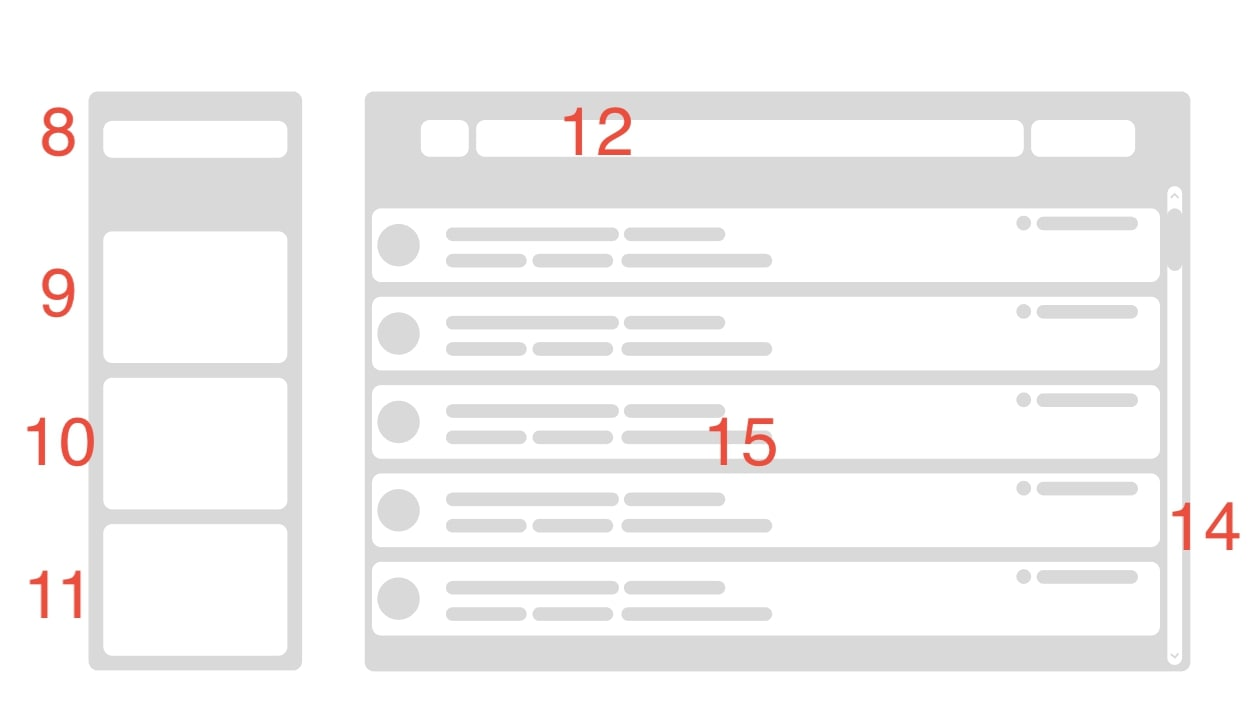
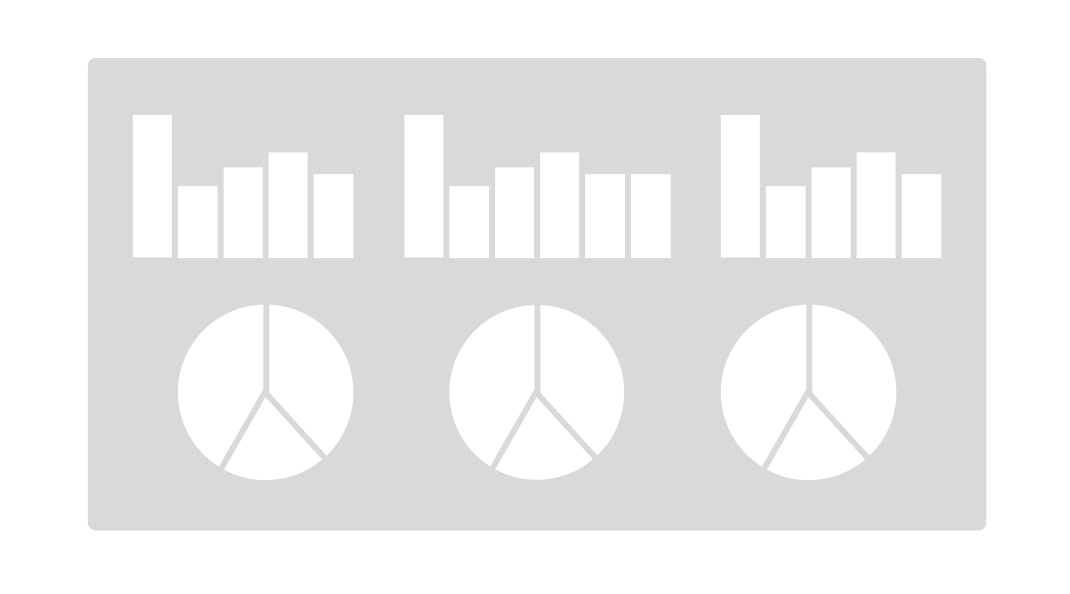
docs: adiciona mais telas para indentificação dos elementos

diff --git a/docs/project.md b/docs/project.md
@@ -1070,17 +1070,13 @@ _conteúdo_
   <sup>Fonte: Material produzido pelos autores (2025).</sup>
 </div>
 
-1. **Área de destaque (imagem ou ilustração)**
-   Espaço destinado para inserir uma imagem de identidade visual do Centro Paula Sousa.
+1. **Área de destaque (imagem ou ilustração):** Espaço destinado para inserir uma imagem de identidade visual do Centro Paula Sousa.
 
-2. **Campo de entrada para e-mail**
-   Área para que o gerente insere seu endereço de e-mail.
+2. **Campo de entrada para e-mail:** Área para que o gerente insere seu endereço de e-mail.
 
-3. **Campo de entrada para senha**
-   Campo de texto onde o gerente digita sua senha. É mascarado (••••) para proteger a privacidade do usuário.
+3. **Campo de entrada para senha:** Campo de texto onde o gerente digita sua senha. É mascarado (••••) para proteger a privacidade do usuário.
 
-4. **Botão de ação (Login)**
-   Ao clicar, o sistema valida as credenciais fornecidas (e-mail e senha) e redireciona o gerente para a próxima tela, caso os dados estejam corretos.
+4. **Botão de ação (Login):** Ao clicar, o sistema valida as credenciais fornecidas (e-mail e senha) e redireciona o gerente para a próxima tela, caso os dados estejam corretos.
 
 ---
 
@@ -1097,23 +1093,20 @@ _conteúdo_
   <sup>Fonte: Material produzido pelos autores (2025).</sup>
 </div>
 
-5. **Área para logotipo**
-   Espaço reservado para inserir o logotipo ou nome da marca, mantendo a identidade visual do sistema.
+5. **Área para logotipo:** Espaço reservado para inserir o logotipo ou nome da marca, mantendo a identidade visual do sistema.
 
-6. **Texto ou imagem do logotipo**
-   Elemento que representa a identidade visual da marca. Pode ser clicável para redirecionar o usuário à página inicial, dependendo do projeto.
+6. **Texto ou imagem do logotipo:** Elemento que representa a identidade visual da marca. Pode ser clicável para redirecionar o usuário à página inicial, dependendo do projeto.
 
-7. **Avatar clicável**
-   Ícone que representa o usuário, geralmente localizado à direita da barra de navegação. Pode exibir um menu ao ser clicado, permitindo acesso a configurações, perfil ou logout.
+7. **Avatar clicável:** Ícone que representa o usuário, geralmente localizado à direita da barra de navegação. Pode exibir um menu ao ser clicado, permitindo acesso a perfil ou sair da conta.
 
 ---
 
-#### Lista não Preenchida
+#### Lista Não Preenchida
 
 <div align="center">
   <sub>Figura X - Wireframe da Lista não Preenchida</sub> <br>
 
-  <img src="./assets/section7/7.1_wireframe/enumerated_elements/dashboard_blank.jpg"
+  <img src="./assets/section7/7.1_wireframe/enumerated_elements/empty_list.jpg"
         alt="Wireframe da Lista não Preenchida"
         border="0"
         style="max-width: 600px; width: 100%; height: auto;">
@@ -1121,32 +1114,26 @@ _conteúdo_
   <sup>Fonte: Material produzido pelos autores (2025).</sup>
 </div>
 
-8. **Filtro de Instituição de Ensino (School)**
-   Área para selecionar a instituição de ensino desejada(Só aparece para Gerente Geral). Pode influenciar as listas e relatórios exibidos na tela.
+8. **Filtro de instituição de ensino:** Área para selecionar a instituição de ensino desejada (só é exibido para Gerente Geral). Isto filtra as listas e relatórios exibidos na tela.
 
-9. **Botão "Listar Alunos"**
-   Ao clicar, exibe a lista de alunos vinculados à instituição de ensino selecionada ou pré-atribuida ào gerente de unidade.
+9. **Botão "Listar Alunos":** Ao clicar, exibe a lista de alunos vinculados à instituição de ensino selecionada ou pré-atribuida ào gerente de unidade.
 
-10. **Botão "Listar Profissionais"**
-    Ao clicar, exibe a lista de profissionais (médicos, cuidadores, etc.) que realizaram atividades na instituição.
+10. **Botão "Listar Profissionais":** Ao clicar, exibe a lista de profissionais (médicos, cuidadores, etc.) que realizaram atividades na instituição.
 
-11. **Botão "Gerenciar Gerentes"**
-    Visível apenas para usuários com permissão de gerente geral. Permite visualizar e gerenciar outros gerentes.
+11. **Botão "Gerenciar Gerentes":** Visível apenas para usuários com permissão de gerente geral. Permite visualizar e gerenciar outros gerentes.
 
-12. **Barra de Filtros**
-    Localizada na parte superior da coluna central. Permite filtrar ou refinar a lista que está sendo exibida (alunos, profissionais, gerentes, etc.).
+12. **Barra de filtros:** Localizada na parte superior da coluna central. Permite filtrar ou refinar a lista que está sendo exibida (alunos, profissionais, gerentes, etc.).
 
-13. **Lista de objetos**
-    Espaço dedicado para listar Alunos, Profissionais ou gerentes, dependendo de qual botão foi clicado préviamente.
+13. **Lista de objetos:** Espaço dedicado para listar Alunos, Profissionais ou gerentes, dependendo de qual botão foi clicado préviamente.
 
 ---
 
-#### Lista informações
+#### Lista Preenchida
 
 <div align="center">
   <sub>Figura X - Wireframe da lista preenchida</sub> <br>
 
-  <img src="./assets/section7/7.1_wireframe/enumerated_elements/dashboard.jpg"
+  <img src="./assets/section7/7.1_wireframe/enumerated_elements/list.jpg"
          alt="Wireframe da lista preenchida"
          border="0"
          style="max-width: 600px; width: 100%; height: auto;">
@@ -1154,11 +1141,9 @@ _conteúdo_
   <sup>Fonte: Material produzido pelos autores (2025).</sup>
 </div>
 
-14. **Barra de Scroll**
-    Ilustra que a lista é "scrollavel".
+14. **Barra de scroll:** Ilustra que a lista é rolável.
 
-15. **Área de Listagem / Conteúdo**
-    Exibe o resultado selecionado na primeira coluna (alunos, profissionais ou gerentes). Contem informações detalhadas, e quando clicada, leva para a tela de detalhes e gerenciamento.
+15. **Área de listagem:** Exibe o resultado selecionado na primeira coluna (alunos, profissionais ou gerentes). Contem informações detalhadas, e quando um item é clicado, leva para a página com a visão detalhada do item clicado.
 
 ---
 
@@ -1167,7 +1152,7 @@ _conteúdo_
 <div align="center">
   <sub>Figura X - Wireframe do dashboard dos alunos</sub> <br>
 
-  <img src="./assets/section7/7.1_wireframe/enumerated_elements/analytics.jpg"
+  <img src="./assets/section7/7.1_wireframe/enumerated_elements/dashboard.jpg"
          alt="Wireframe do dashboard dos alunos"
          border="0"
          style="max-width: 600px; width: 100%; height: auto;">
@@ -1175,13 +1160,11 @@ _conteúdo_
   <sup>Fonte: Material produzido pelos autores (2025).</sup>
 </div>
 
-- Observação: Analytics só aparecem na listagem de *Alunos*
+- *Observação: Este dashboard só aparecem na listagem de Alunos*
 
-16. **Gráficos de Barras (Analytics)**
-    Mostra dados analíticos referentes aos alunos/profissionais selecionados, possibilitando uma visualização rápida de métricas (por exemplo, atendimentos realizados, condição por escola etc).
+16. **Gráficos de barras:** Mostra dados analíticos referentes aos alunos/profissionais selecionados, possibilitando uma visualização rápida de métricas (por exemplo, atendimentos realizados, condição por escola, etc).
 
-17. **Gráficos de Pizza (Analytics)**
-    Apresenta dados complementares aos gráficos de barras, permitindo comparar proporções de forma visual, de acordo com o contexto escolhido no dashboard.
+17. **Gráficos de pizza:** Apresenta dados complementares aos gráficos de barras, permitindo comparar proporções de forma visual, de acordo com o contexto escolhido no dashboard.
 
 ---
 
@@ -1198,40 +1181,88 @@ _conteúdo_
   <sup>Fonte: Material produzido pelos autores (2025).</sup>
 </div>
 
-18. **Informações basicas do Aluno**
-    Apresenta dados basicos, como nome, email, tecnologias assistivas etc.
-19. **Observação**
-    Observações gerais daquele aluno, cabe ao Gerente escreve-las.
-20. **Informações de Curso**
-    Dados como, cursos cursados, data de inicio e fim, turno etc.
-21. **Timeline do Aluno**
-    Atendimentos e atualizações sobre o aluno aparecerão aqui..
-22. **Detalhamento da Timeline**
-    Quando clicado em algum elemento da timeline, essa seção irá atualizar com informações complementares.
+18. **Informações básicas do aluno:** Apresenta dados básicos, como nome, e-mail, tecnologias assistivas etc.
+19. **Observação:** Observações gerais daquele aluno, cabe ao Gerente escrevê-las.
+20. **Informações de curso:** Dados como, cursos cursados, data de início e fim, turno etc.
+21. **Timeline do aluno:** Atendimentos e atualizações sobre o aluno aparecerão aqui em ordem cronológica.
+22. **Detalhamento da timeline:** Quando clicado em algum elemento da timeline, essa seção irá atualizar com informações complementares.
 
 ---
 
-#### Página do Gerente
+#### Página do Aluno (Agendamento de Assistência)
 
 <div align="center">
-  <sub>Figura X - Wireframe da Pagina de Gerente</sub> <br>
+  <sub>Figura X - Wireframe da Pagina de Aluno (Agendamento de Assistência)</sub> <br>
 
-  <img src="./assets/section7/7.1_wireframe/enumerated_elements/show_manager.jpg"
-         alt="Wireframe da Pagina de Gerente"
+  <img src="./assets/section7/7.1_wireframe/enumerated_elements/show_student_assistance.jpg"
+         alt="Wireframe da Pagina de Aluno (Agendamento de Assistência)"
          border="0"
          style="max-width: 600px; width: 100%; height: auto;">
 
   <sup>Fonte: Material produzido pelos autores (2025).</sup>
 </div>
 
-23. **Informações do Gerente**
-    Nome, Telefone, email, etc. Tambem incluí um botão para editar informações relacionadas.
+23. **Título do modal** Título para contextualizar o usuário do que foi aberto.
+24. **Barra de progresso** Indicador do progresso de preenchimento do formulário. Então conforme o usuárioa avança no preenchimento das informação que serão divididas em etapas, isso será indicado ao usuário.
+24. **Formulário** Toda assistência tem que armazenar o profissional e uma tecnologia assistiva, então todos os dados necessários estarão reunidos aqui.
 
-24. **Unidade de Atuação**
-    Incluí onde aquele Gerente está trabalhando e informação de quantos profissionais estão atuando naquela unidade.
+---
 
-25. **Campo de Observações**
-    Serve para adicionar qualquer detalhamento necessário sobre aquele Gerente.
+#### Página do Aluno (Histórico de Cursos)
+
+<div align="center">
+  <sub>Figura X - Wireframe da Pagina de Aluno (Histórico de Cursos)</sub> <br>
+
+  <img src="./assets/section7/7.1_wireframe/enumerated_elements/show_student_courses.jpg"
+         alt="Wireframe da Pagina de Aluno (Histórico de Cursos)"
+         border="0"
+         style="max-width: 600px; width: 100%; height: auto;">
+
+  <sup>Fonte: Material produzido pelos autores (2025).</sup>
+</div>
+
+26. **Botão "Ver Cursos":** Exibe uma pequena janela para visualizar o histórico de cursos e instituições pelas quais o usuário.
+27. **Botão "Ver Cursos":** Janela de visuaçização do histórico de cursos do aluno.
+
+---
+
+#### Página de um Profissional
+
+<div align="center">
+  <sub>Figura X - Wireframe da Pagina de um Profissional</sub> <br>
+
+  <img src="./assets/section7/7.1_wireframe/enumerated_elements/show_professional.jpg"
+         alt="Wireframe da Pagina de um Profissional"
+         border="0"
+         style="max-width: 600px; width: 100%; height: auto;">
+
+  <sup>Fonte: Material produzido pelos autores (2025).</sup>
+</div>
+
+28. **Informações sobre o profissional:** Nome, Telefone, e-mail, etc. Tambem inclui um botão para editar informações relacionadas.
+29. **Observações sobre o profissional:** Informações gerais que podem ser úteis para identificar e entender a função daquele profisisional.
+30. **Lista de alunos:** listagem dos alunos e informações sobre a assitência que o profissional presta ao aluno.
+
+---
+
+#### Página de um Usuário
+
+<div align="center">
+  <sub>Figura X - Wireframe da Pagina de um Usuário</sub> <br>
+
+  <img src="./assets/section7/7.1_wireframe/enumerated_elements/show_user.jpg"
+         alt="Wireframe da Pagina de um Usuário"
+         border="0"
+         style="max-width: 600px; width: 100%; height: auto;">
+
+  <sup>Fonte: Material produzido pelos autores (2025).</sup>
+</div>
+
+31. **Informações do Gerente:** Nome, Telefone, e-mail, etc. Tambem inclui um botão para editar informações relacionadas.
+
+32. **Unidade de Atuação:** Informação sobre a instiruição com a qual o usuário está vinculado.
+
+33. **Histórico de ações:** Lista ordenada contendo o detalhamento das útimas ações feitas no sistema pelo usuário.
     
 ## 7.2 Desenvolvimento de Mockups
 _conteúdo_
